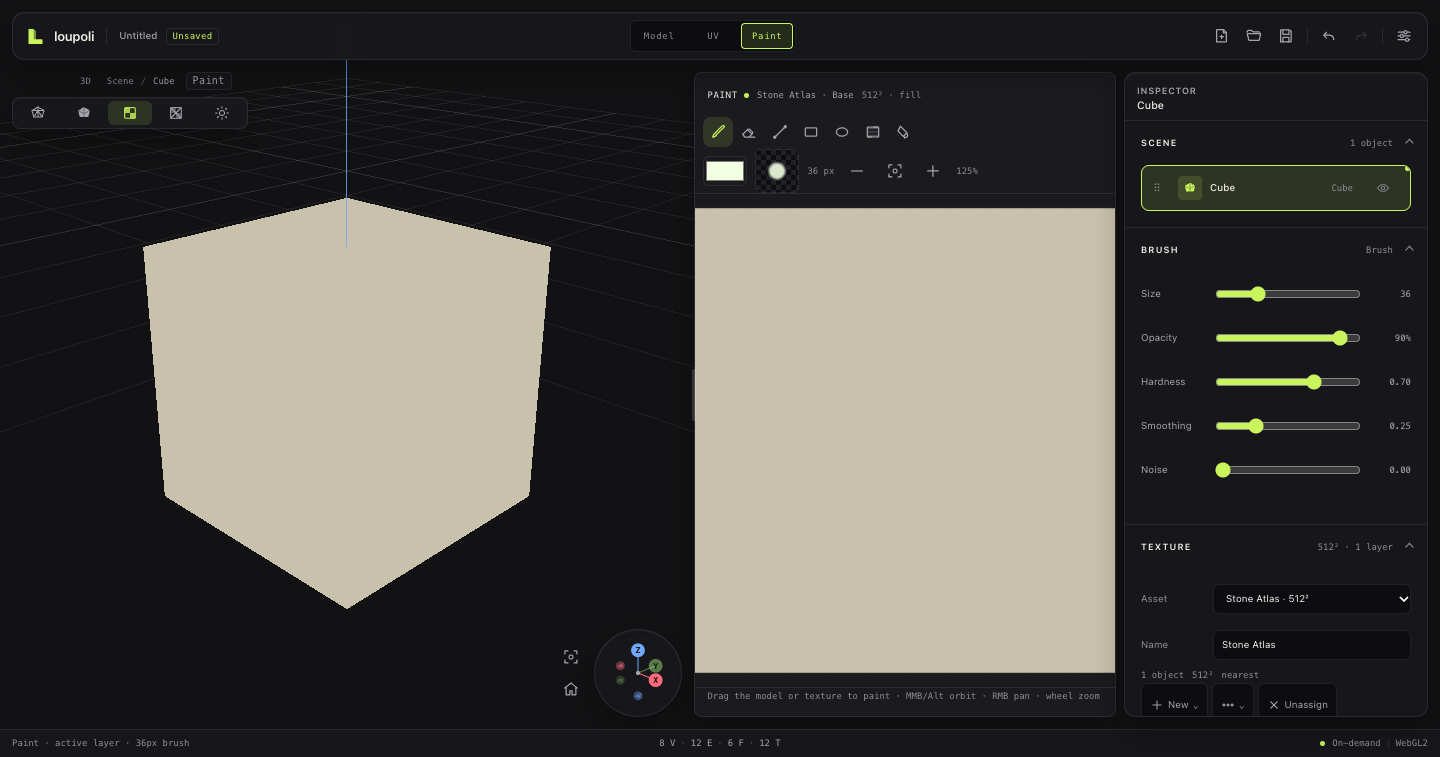
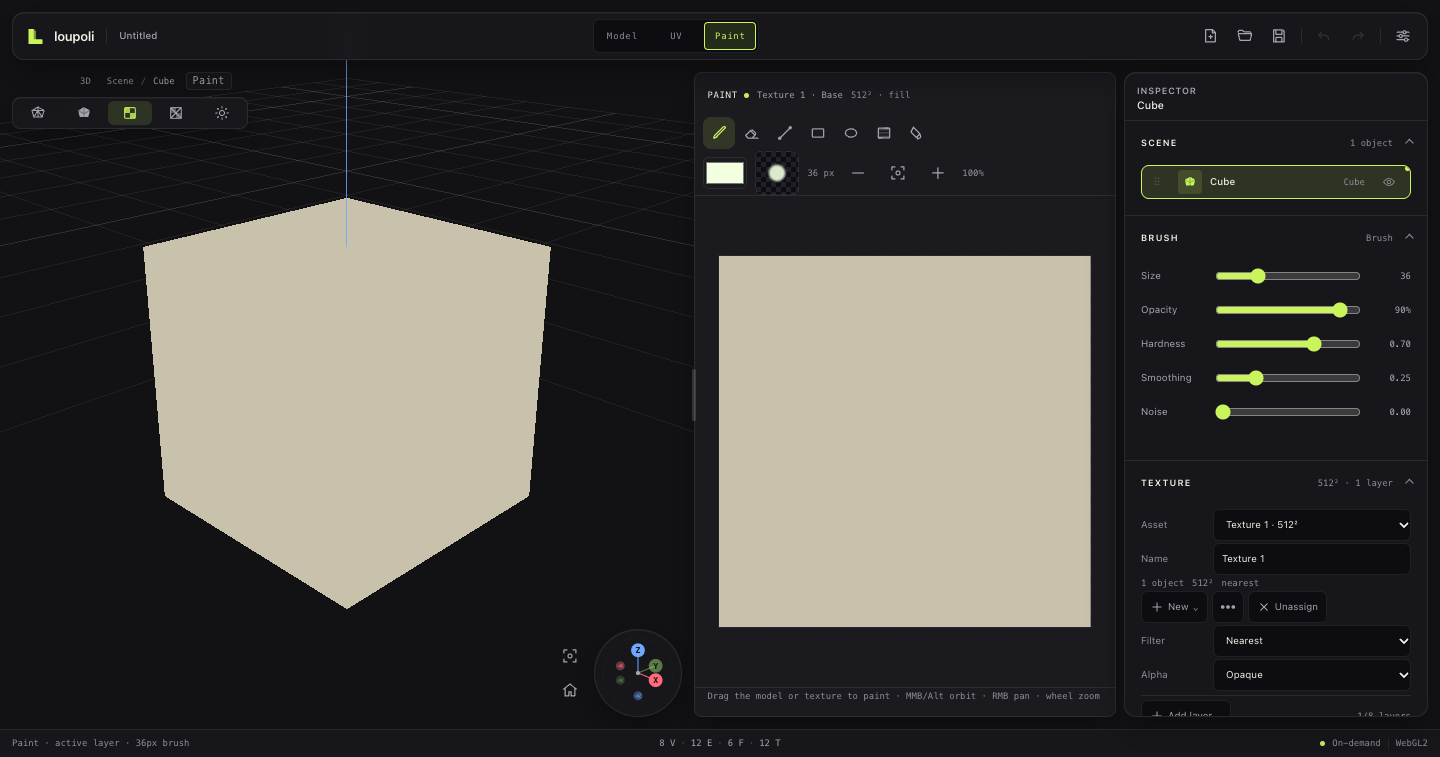
Unify inspector control density
Moves desktop controls to one 32px height shared by inputs, selects, action buttons, and outliner rows, with the 44px touch override. Tightens Brush and texture row rhythm and aligns remaining scene selectors and transform fields to the same token.

diff --git a/src/lib/ui/Panels/Inspector.svelte b/src/lib/ui/Panels/Inspector.svelte
@@ -1629,14 +1629,14 @@
   .object-list {
     display: flex;
     flex-direction: column;
-    gap: var(--space-1);
+    gap: 2px;
   }
 
   .object-row {
     display: flex;
     align-items: stretch;
     width: 100%;
-    min-height: var(--hit-min);
+    min-height: var(--control-h);
     border: var(--hairline) solid var(--border-subtle);
     border-radius: var(--radius-md);
     background: var(--bg-input);
@@ -1651,7 +1651,7 @@
     flex: 1;
     align-items: center;
     min-width: 0;
-    min-height: var(--hit-min);
+    min-height: var(--control-h);
     gap: var(--space-2);
     padding: 0 var(--space-2);
     border: 0;
@@ -1726,7 +1726,7 @@
 
   .primitive-select,
   .scene-button {
-    min-height: var(--hit-min);
+    min-height: var(--control-h);
     border: var(--hairline) solid var(--border-subtle);
     border-radius: var(--radius-md);
     background: var(--bg-input);
@@ -1934,7 +1934,7 @@
 
   .snap-toggle,
   .snap-step {
-    min-height: var(--hit-min);
+    min-height: var(--control-h);
     border: var(--hairline) solid var(--border-subtle);
     border-radius: var(--radius-md);
     background: var(--bg-input);
@@ -2025,7 +2025,7 @@
 
   .modifier-select,
   .modifier-field select {
-    min-height: var(--hit-min);
+    min-height: var(--control-h);
     min-width: 0;
     border: var(--hairline) solid var(--border-subtle);
     border-radius: var(--radius-md);
@@ -2227,6 +2227,12 @@
     gap: 0;
   }
 
+  .brush-body {
+    display: flex;
+    flex-direction: column;
+    gap: 2px;
+  }
+
   .texture-block {
     display: flex;
     flex-direction: column;
@@ -2281,7 +2287,7 @@
     display: flex;
     align-items: center;
     gap: 2px;
-    min-height: var(--hit-min);
+    min-height: var(--control-h);
     border: var(--hairline) solid transparent;
     border-radius: var(--radius-sm);
     background: var(--bg-input);
@@ -2314,7 +2320,7 @@
     grid-template-columns: 16px minmax(0, 1fr) auto auto;
     align-items: center;
     min-width: 0;
-    min-height: var(--hit-min);
+    min-height: var(--control-h);
     gap: var(--space-1);
     padding: 0 var(--space-1);
     border: 0;
@@ -2366,7 +2372,7 @@
   .texture-name-input {
     flex: 1;
     min-width: 0;
-    min-height: var(--hit-min);
+    min-height: var(--control-h);
     padding: 0 var(--space-1);
     border: 0;
     background: transparent;

diff --git a/src/lib/ui/Primitives/SelectField.svelte b/src/lib/ui/Primitives/SelectField.svelte
@@ -35,7 +35,7 @@
     display: grid;
     grid-template-columns: minmax(64px, auto) minmax(0, 1fr);
     align-items: center;
-    min-height: var(--hit-min);
+    min-height: var(--control-h);
     gap: var(--space-2);
     color: var(--text-tertiary);
     font-family: var(--font-ui);
@@ -44,7 +44,7 @@
 
   select {
     width: 100%;
-    min-height: var(--control-h);
+    height: var(--control-h);
     padding: 0 var(--space-2);
     border: var(--hairline) solid var(--border-subtle);
     border-radius: var(--radius-sm);

diff --git a/src/lib/ui/Primitives/TextField.svelte b/src/lib/ui/Primitives/TextField.svelte
@@ -39,7 +39,7 @@
     display: grid;
     grid-template-columns: minmax(64px, auto) minmax(0, 1fr);
     align-items: center;
-    min-height: var(--hit-min);
+    min-height: var(--control-h);
     gap: var(--space-2);
     color: var(--text-tertiary);
     font-family: var(--font-ui);
@@ -48,7 +48,7 @@
 
   input {
     width: 100%;
-    min-height: var(--control-h);
+    height: var(--control-h);
     padding: 0 var(--space-2);
     border: var(--hairline) solid var(--border-subtle);
     border-radius: var(--radius-sm);

diff --git a/src/lib/ui/Primitives/ColorField.svelte b/src/lib/ui/Primitives/ColorField.svelte
@@ -24,7 +24,7 @@
     display: grid;
     grid-template-columns: minmax(64px, auto) minmax(0, 1fr);
     align-items: center;
-    min-height: var(--hit-min);
+    min-height: var(--control-h);
     gap: var(--space-2);
     color: var(--text-tertiary);
     font-family: var(--font-ui);
@@ -33,7 +33,7 @@
 
   input {
     width: 100%;
-    height: var(--hit-min);
+    height: var(--control-h);
     padding: 4px;
     border: var(--hairline) solid var(--border-subtle);
     border-radius: var(--radius-sm);

diff --git a/src/lib/ui/Primitives/ActionMenu.svelte b/src/lib/ui/Primitives/ActionMenu.svelte
@@ -101,7 +101,8 @@
   }
 
   .action-menu-trigger.icon-only {
-    width: var(--hit-min);
+    width: var(--control-h);
+    height: var(--control-h);
     padding: 0;
     justify-content: center;
   }
@@ -110,7 +111,7 @@
     display: flex;
     align-items: center;
     justify-content: flex-start;
-    min-height: var(--hit-min);
+    min-height: var(--control-h);
     gap: var(--space-1);
     padding: 0 var(--space-2);
     border: var(--hairline) solid var(--border-subtle);

diff --git a/src/lib/ui/Primitives/OutlinerVisibility.svelte b/src/lib/ui/Primitives/OutlinerVisibility.svelte
@@ -28,8 +28,8 @@
     align-items: center;
     justify-content: center;
     flex: 0 0 auto;
-    min-width: var(--hit-min);
-    min-height: var(--hit-min);
+    min-width: var(--control-h);
+    min-height: var(--control-h);
     border: 0;
     background: transparent;
     color: var(--text-tertiary);

diff --git a/src/lib/ui/Primitives/SliderField.svelte b/src/lib/ui/Primitives/SliderField.svelte
@@ -49,7 +49,7 @@
     display: grid;
     grid-template-columns: minmax(64px, auto) minmax(0, 1fr) 44px;
     align-items: center;
-    min-height: var(--hit-min);
+    min-height: var(--control-h);
     gap: var(--space-2);
     color: var(--text-tertiary);
     font-family: var(--font-mono);

diff --git a/src/lib/ui/Primitives/ActionButton.svelte b/src/lib/ui/Primitives/ActionButton.svelte
@@ -39,7 +39,7 @@
     display: inline-flex;
     align-items: center;
     justify-content: center;
-    min-height: var(--hit-min);
+    min-height: var(--control-h);
     gap: var(--space-1);
     padding: 0 var(--space-2);
     border: var(--hairline) solid var(--border-subtle);

diff --git a/src/lib/ui/Primitives/OutlinerDragHandle.svelte b/src/lib/ui/Primitives/OutlinerDragHandle.svelte
@@ -27,7 +27,7 @@
     justify-content: center;
     flex: 0 0 auto;
     min-width: 28px;
-    min-height: var(--hit-min);
+    min-height: var(--control-h);
     border: 0;
     background: transparent;
     color: var(--text-tertiary);

diff --git a/src/lib/ui/Primitives/Vector3Field.svelte b/src/lib/ui/Primitives/Vector3Field.svelte
@@ -86,7 +86,7 @@
     display: flex;
     align-items: center;
     min-width: 0;
-    min-height: var(--hit-min);
+    min-height: var(--control-h);
     gap: 5px;
     padding: 0 7px;
     background: var(--bg-input);

diff --git a/src/design/tokens.css b/src/design/tokens.css
@@ -99,7 +99,7 @@
 
   /* Controls */
   --control-h-sm: 24px;
-  --control-h: 30px;
+  --control-h: 32px;
   --control-h-lg: 36px;
   --hit-min: 44px;
   --control-h-touch: 44px;

diff --git a/AGENTS.md b/AGENTS.md
@@ -125,10 +125,10 @@ Phase 2 and the Phase 3 foundations are implemented for browser and native deskt
 - Seam-chart LSCM unwrap: corner-based chart vertices split at seam-cut fans, automatic farthest-boundary pins or two explicit corner pins, longest-edge alignment, shelf packing, and explicit rejection of closed, non-finite, zero-area, flipped, or overlapping charts. `ReplaceUvCommand` stores the full UV column with a `replace-uv` patch.
 - Texture assets and bindings: a project-level library owns independent assets at 64–2048 presets with nearest/linear filtering and up to eight layers each. Meshes bind by stable texture ID, so objects can share one atlas. Each asset has one composite `CanvasTexture`; the renderer caches material variants per asset, so shared textures upload once. Manual save writes `.lpoly` v3 with per-asset layer metadata and aligned binary PNG chunks. Texture edits mark autosave dirty and force a fresh v3 checkpoint with PNGs, so recovery restores assets. Rename and Normal/Multiply/Screen blend modes are implemented and serialized. Layers are fill (solid/checker/transparent) or raster with color/detail/lighting roles; checkerboards are preview backdrops rather than content, and assets carry an Opaque/Cutout/Blend alpha mode. raster pixels are authoritative, so metadata undo and image import never redraw/erase them, and removed layers are archived for undo. Paint transactions draw into a scratch layer and commit one localized undo rectangle, so committed pixels are untouched until pointer-up and cancel is lossless. Imported images are fitted into a new raster layer with preserved aspect ratio. The dedicated Paint workspace uses a fixed two-row toolbar (tool strip + brush preview/quick controls), a stable Paint footer, and a Brush Inspector section for detailed settings. A shared `PaintEngine` powers brush, eraser, line, rectangle, ellipse, linear/radial gradient, and flood-fill tools. UV and Paint use the same `TextureSurface` renderer and asset filter; the Paint view supports wheel zoom, right/middle pan, two-finger pinch/pan, and Fit. It supports pressure-sensitive radius/opacity, pen-tilt elliptical stamps (mouse/touch stay circular), hardness, smoothing, noise, filled/outline shapes, scratch-layer live preview, one undoable pixel patch per gesture, and v3 autosave. 3D projection painting is implemented for Brush and Eraser: a latched LMB surface hit paints, a miss orbits, MMB/Alt orbit over the mesh, RMB/Space pan, and the cursor follows the surface. Texel radius is derived from local UV density; strokes only connect within one face so they never jump UV islands. Projected line, rectangle, ellipse, screen-space gradient, and UV-island fill are implemented.
 - QuadSphere, Cube, Cylinder (n-gon caps), and Grid primitives; the first-run scene and New Project both use an editable Cube. New primitives are created at the origin and selected.
-- The active editor is the last clicked pane; shared Selection Bar and Tool Rail commands target it, with a subtle title dot. Command metadata/scopes/key bindings live in one registry; keyboard dispatch goes through one ShortcutBus. Workspace Tabs use the shared SegmentedControl primitive. A shared workspace capability policy (`workspaces.ts`) gates input, chrome, and Inspector sections. Model owns 3D selection/editing; UV keeps 3D selection for seams plus UV selection/editing; Paint owns texture and projection painting, hides 3D selection overlays and edit handles while preserving the selection set, and keeps the full shading selector available. The Inspector filters and orders a section registry per workspace: Model shows Scene/Transform/Selection/Mesh/Modifiers/PS1/Controls, UV shows Scene/Selection/Controls, Paint shows Scene/Brush/Texture/Controls and retains the viewport shading selector. Brush and Texture are adjacent in Paint; full Texture editing is Paint-only. The Texture Inspector groups asset actions into New and the shared ThreeDotMenu, exposes an inline asset Name field, and uses a typed Add-layer menu. Texture layers use the same drag-handle/visibility row language as Scene: drag to reorder, right-side eye to hide, and an explicit Delete layer action. The shared OutlinerDragHandle and OutlinerVisibility controls keep both outliners aligned. The UV toolbar uses the same icon-button language as Paint, with explicit Move/Rotate/Scale groups; Paint and UV both provide minus/Fit/plus zoom controls.
+- The active editor is the last clicked pane; shared Selection Bar and Tool Rail commands target it, with a subtle title dot. Command metadata/scopes/key bindings live in one registry; keyboard dispatch goes through one ShortcutBus. Workspace Tabs use the shared SegmentedControl primitive. A shared workspace capability policy (`workspaces.ts`) gates input, chrome, and Inspector sections. Model owns 3D selection/editing; UV keeps 3D selection for seams plus UV selection/editing; Paint owns texture and projection painting, hides 3D selection overlays and edit handles while preserving the selection set, and keeps the full shading selector available. The Inspector filters and orders a section registry per workspace: Model shows Scene/Transform/Selection/Mesh/Modifiers/PS1/Controls, UV shows Scene/Selection/Controls, Paint shows Scene/Brush/Texture/Controls and retains the viewport shading selector. Brush and Texture are adjacent in Paint; full Texture editing is Paint-only. The Texture Inspector groups asset actions into New and the shared ThreeDotMenu, exposes an inline asset Name field, and uses a typed Add-layer menu. Texture layers use the same drag-handle/visibility row language as Scene: drag to reorder, right-side eye to hide, and an explicit Delete layer action. The shared OutlinerDragHandle and OutlinerVisibility controls keep both outliners aligned. The UV toolbar uses the same icon-button language as Paint, with explicit Move/Rotate/Scale groups; Paint and UV both provide minus/Fit/plus zoom controls. Inspector inputs, selects, action buttons, and outliner rows share the 32 px desktop control height and the 44 px touch override.
 - Every Inspector section uses the shared `InspectorSection`; Scene, Selection, Brush, and Texture default open, with hidden sections preserving their state. The sidebar X is removed. Workspace Tabs use `SegmentedControl`; the Selection Bar uses command metadata.
 - Element selection changes are undoable through lightweight selection snapshots; object selection and active-node view state remain session UI. Selection commands are not journaled and do not dirty autosave.
-- Multi-object scene outliner with pointer/touch drag reorder, 44 px visibility toggles, undoable reorder/visibility journal patches, primitive creation, active-object selection, undoable add/delete, and vertex/edge/face selection with 16 px picking and viewport overlays. Multi-select is compact beside Group/Join/Delete.
+- Multi-object scene outliner with pointer/touch drag reorder, control-height visibility toggles (44 px in touch density), undoable reorder/visibility journal patches, primitive creation, active-object selection, undoable add/delete, and vertex/edge/face selection with 16 px picking and viewport overlays. Multi-select is compact beside Group/Join/Delete.
 - Selected-edge overlays use constant-width instanced tubes independent of edge length; Wireframe and Texture + Wire add instanced tube overlays for readable weight.
 - Additive multi-element selection: Shift/Cmd/Ctrl-click, a sticky 44 px Add mode for pen/mouse, and one-finger touch taps; selected sets render multi-vertex points, instanced edge tubes, and merged face fills. The Lasso tool selects vertices inside a screen polygon, edges inside/crossing it, and faces with a corner/centroid inside. It is view-through only in Wireframe; shaded modes apply occlusion rejection to vertices, edge samples, and face centroids.
 - The single selected vertex uses the same `Vector3Field` as object transforms. UV topology is built from UV points (not mesh vertices), so split UVs select independently and selected UV edges render visibly. UV click-vs-drag resolves no-move clicks to the exact hit while preserving multi-selections for drags.
